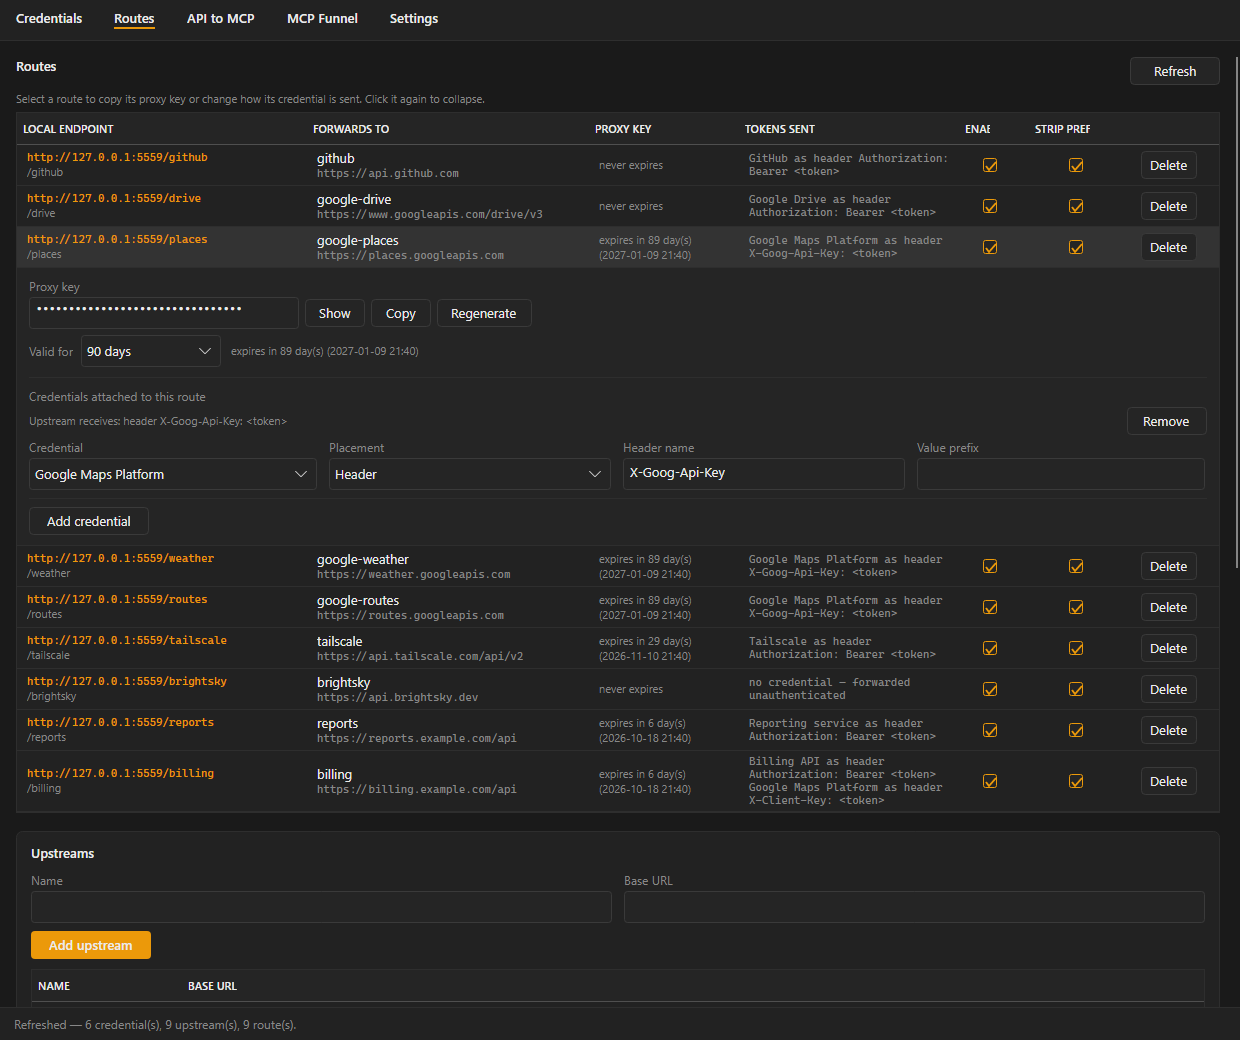
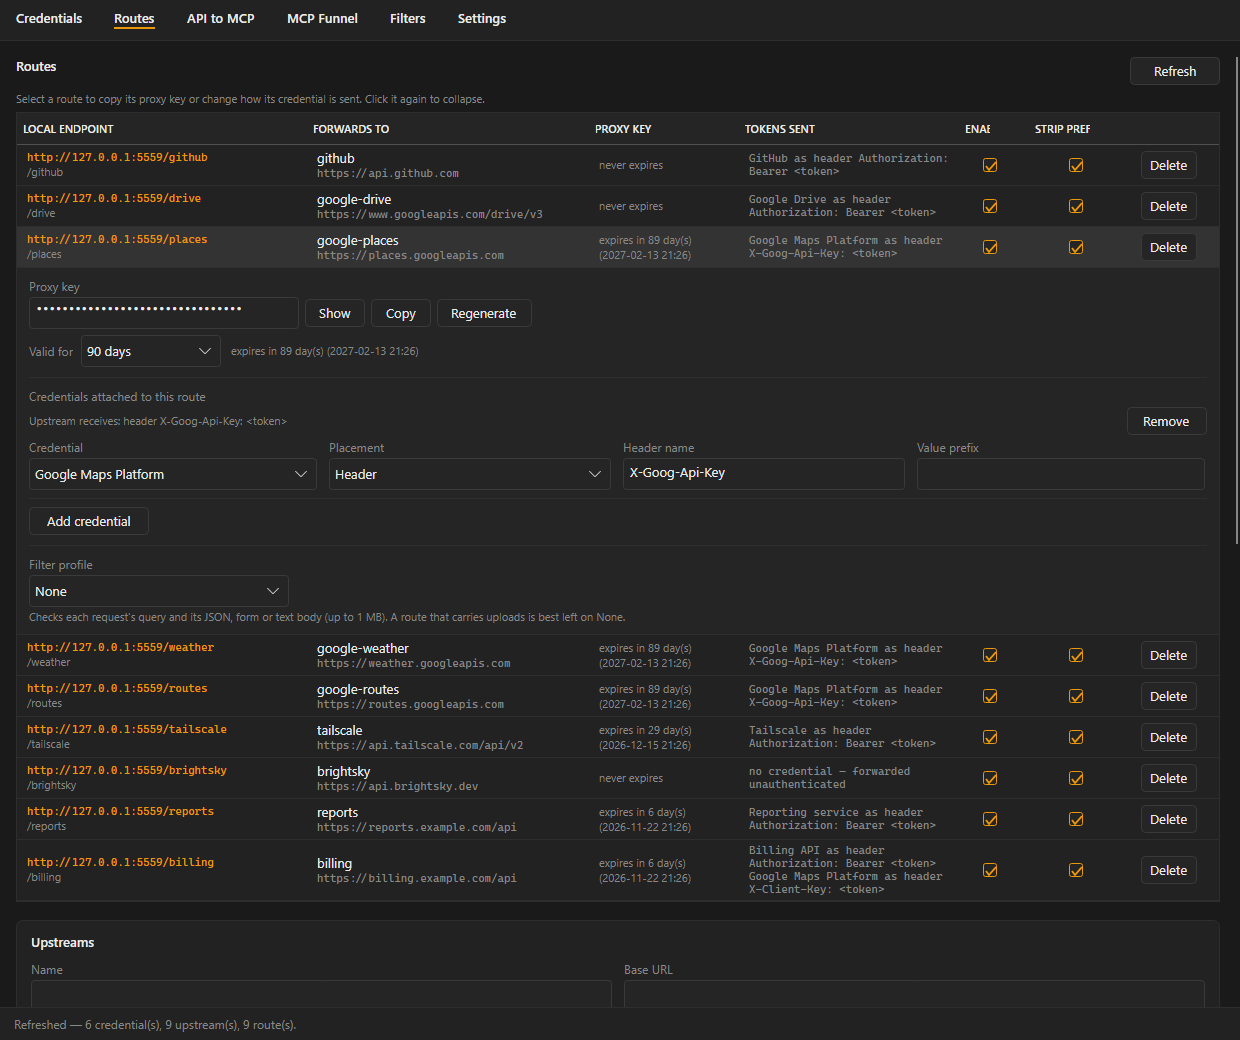
Tour GIF: a Call filters slide; screenshots refreshed with the Filters tab

diff --git a/site/index.html b/site/index.html
@@ -53,7 +53,7 @@
       </div>
 
       <div class="shot">
-        <img src="media/tour.gif" alt="A tour of RavensPort: sign in once, pool MCP servers into one endpoint per agent with MCP Funnel, and turn a REST API or OpenAPI spec into MCP tools with API to MCP" width="960" height="898">
+        <img src="media/tour.gif" alt="A tour of RavensPort: sign in once, pool MCP servers into one endpoint per agent with MCP Funnel, check every call before it leaves with call filters, and turn a REST API or OpenAPI spec into MCP tools with API to MCP" width="960" height="898">
       </div>
     </section>
 

diff --git a/tools/readme-gif.cs b/tools/readme-gif.cs
@@ -17,6 +17,8 @@ using ImageMagick.Drawing;
         "OAuth2 for GitHub, Google or any provider. Tokens refresh in the background."),
     ("mcpFunnelScreen.png", "MCP Funnel: one endpoint per agent",
         "Pool several MCP servers and expose only the tools that agent should see."),
+    ("filtersScreen.png", "Call filters: check every call before it leaves",
+        "Secrets, personal data and risky actions are blocked, on this PC, before any server sees them."),
     ("apiMcpBridgeScreen.png", "API to MCP: any REST API becomes MCP tools",
         "Describe the API in a JSON manifest, and the agent gets tools for it."),
     ("openAPIPicker.png", "Or import an OpenAPI spec",

diff --git a/README.md b/README.md
@@ -44,7 +44,7 @@ Cursor, VS Code or any other MCP client at it, and each agent gets one endpoint 
 the tools you granted, from as many MCP servers and APIs as you like. Windows is the supported
 platform; an experimental Debian/Ubuntu build is available for x86-64 and arm64.
 
-![A tour of RavensPort: sign in once, pool MCP servers into one endpoint per agent with MCP Funnel, and turn a REST API or OpenAPI spec into MCP tools with API to MCP](media/tour.gif)
+![A tour of RavensPort: sign in once, pool MCP servers into one endpoint per agent with MCP Funnel, check every call before it leaves with call filters, and turn a REST API or OpenAPI spec into MCP tools with API to MCP](media/tour.gif)
 
 ## Why
 
